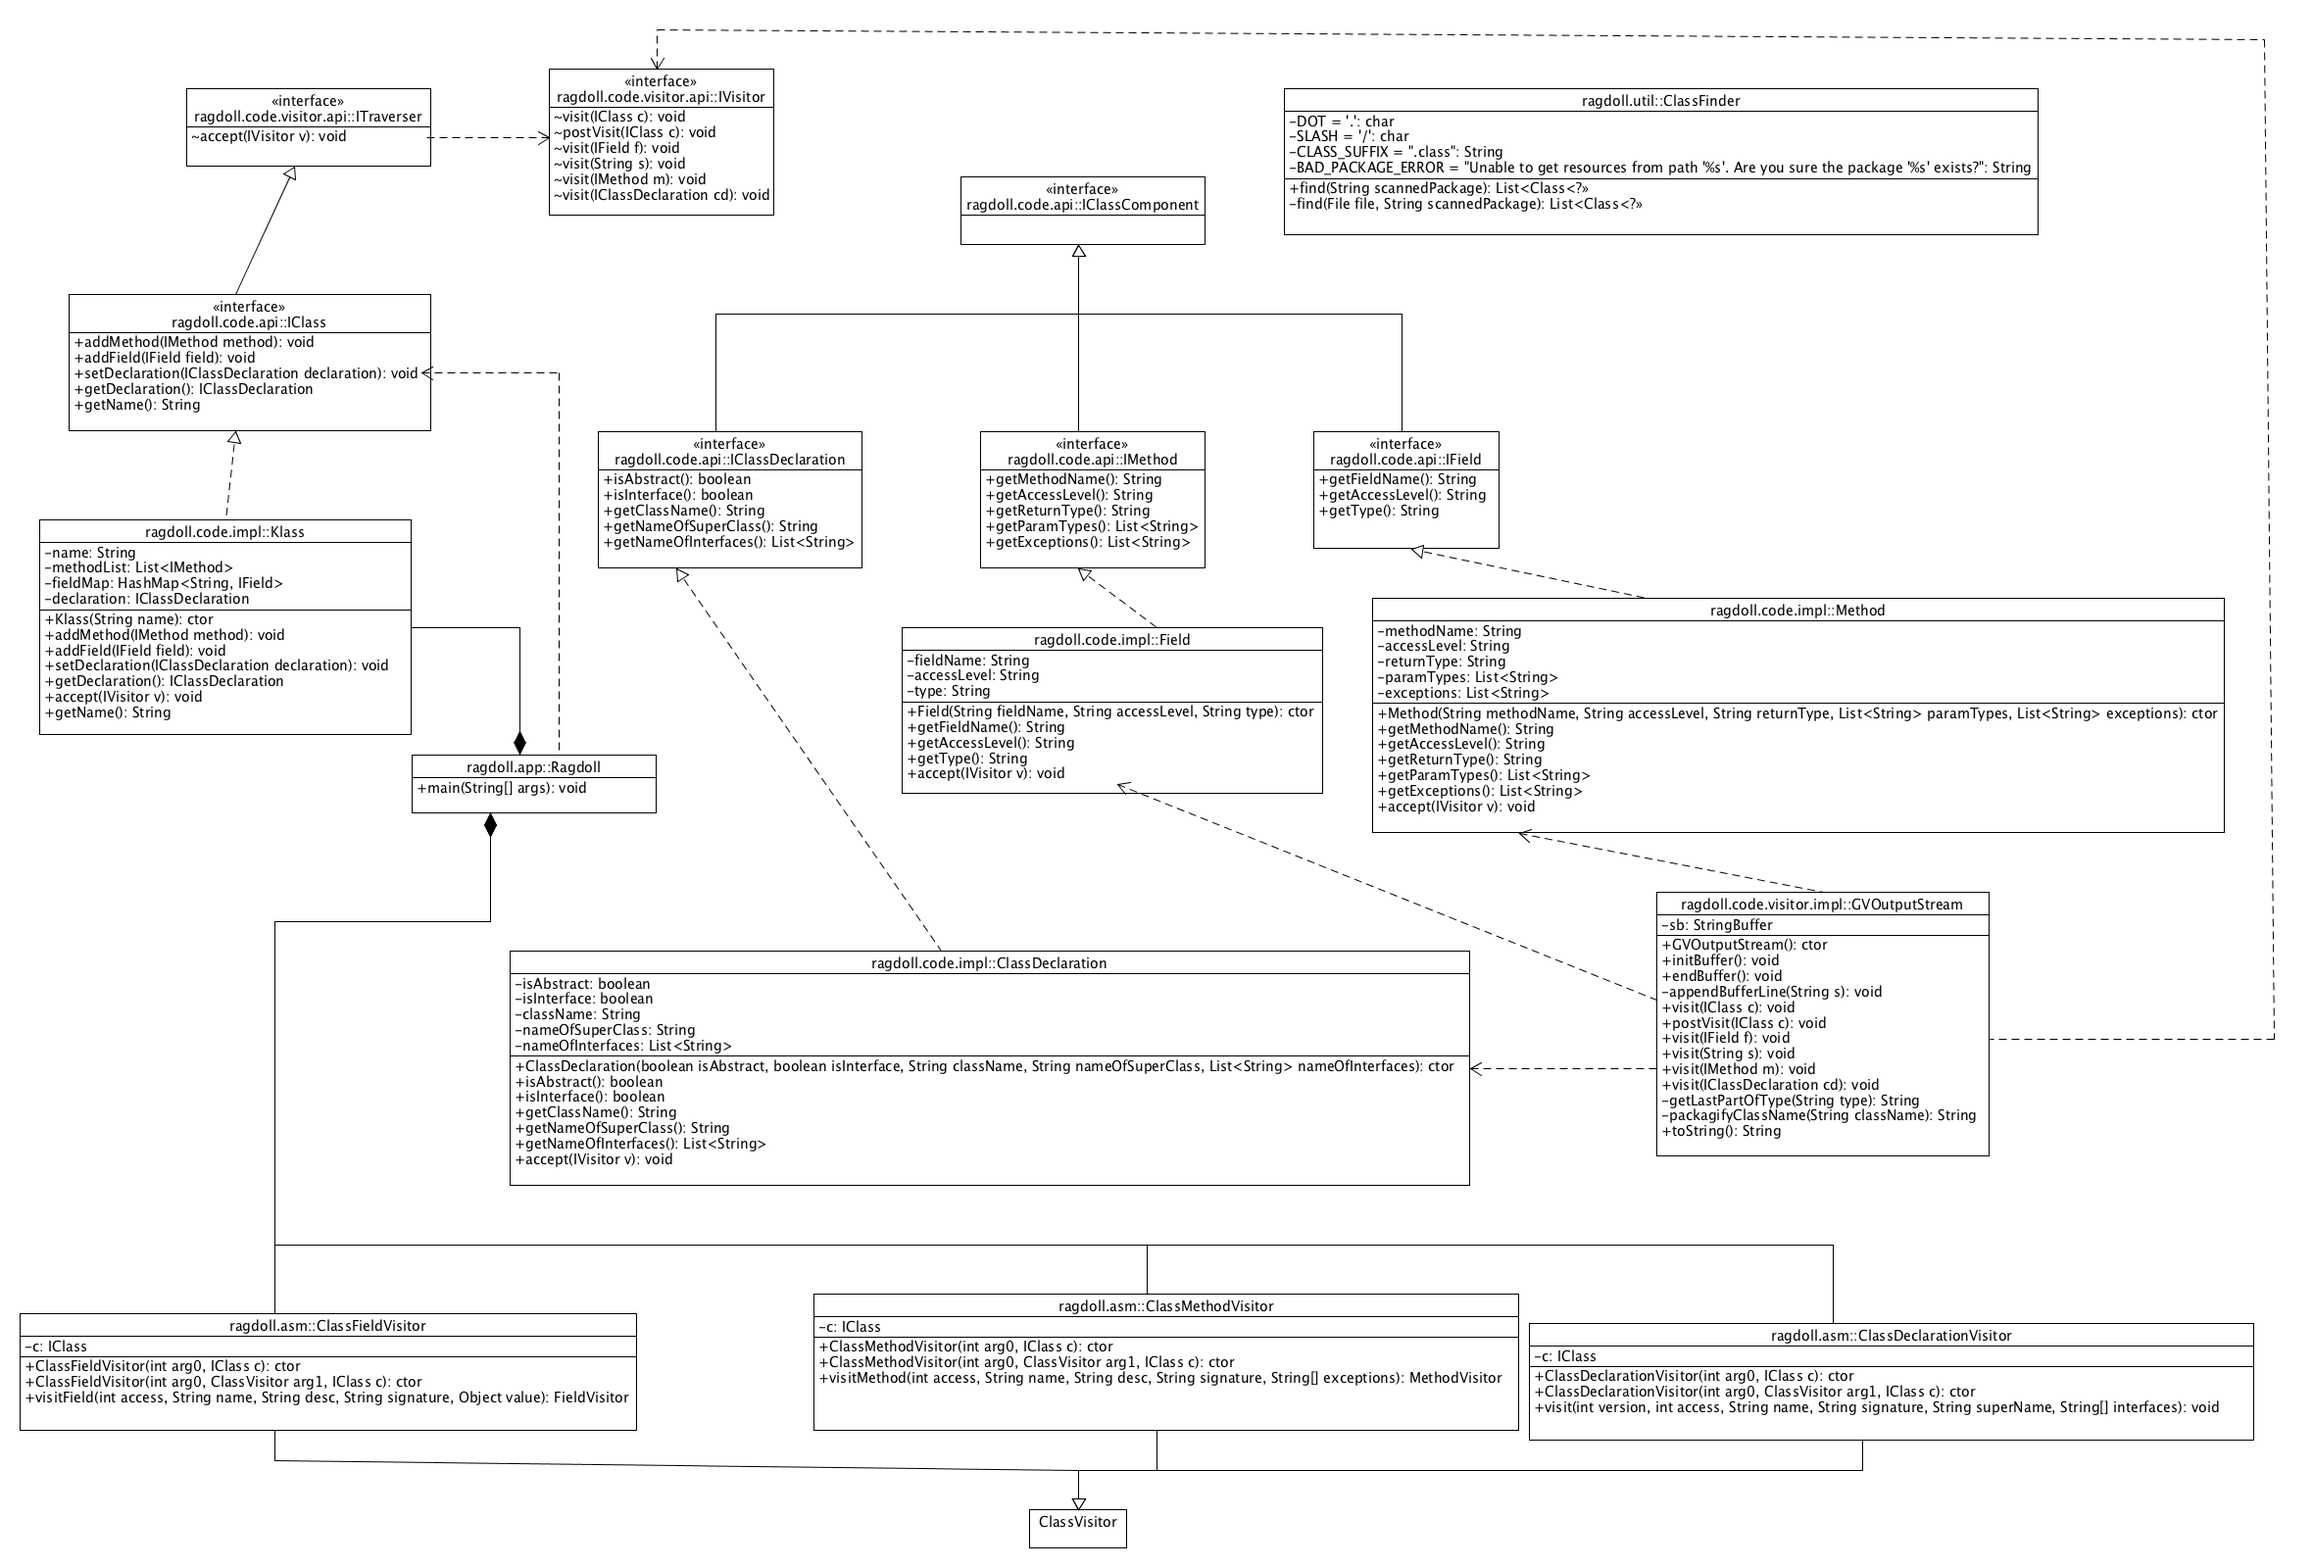
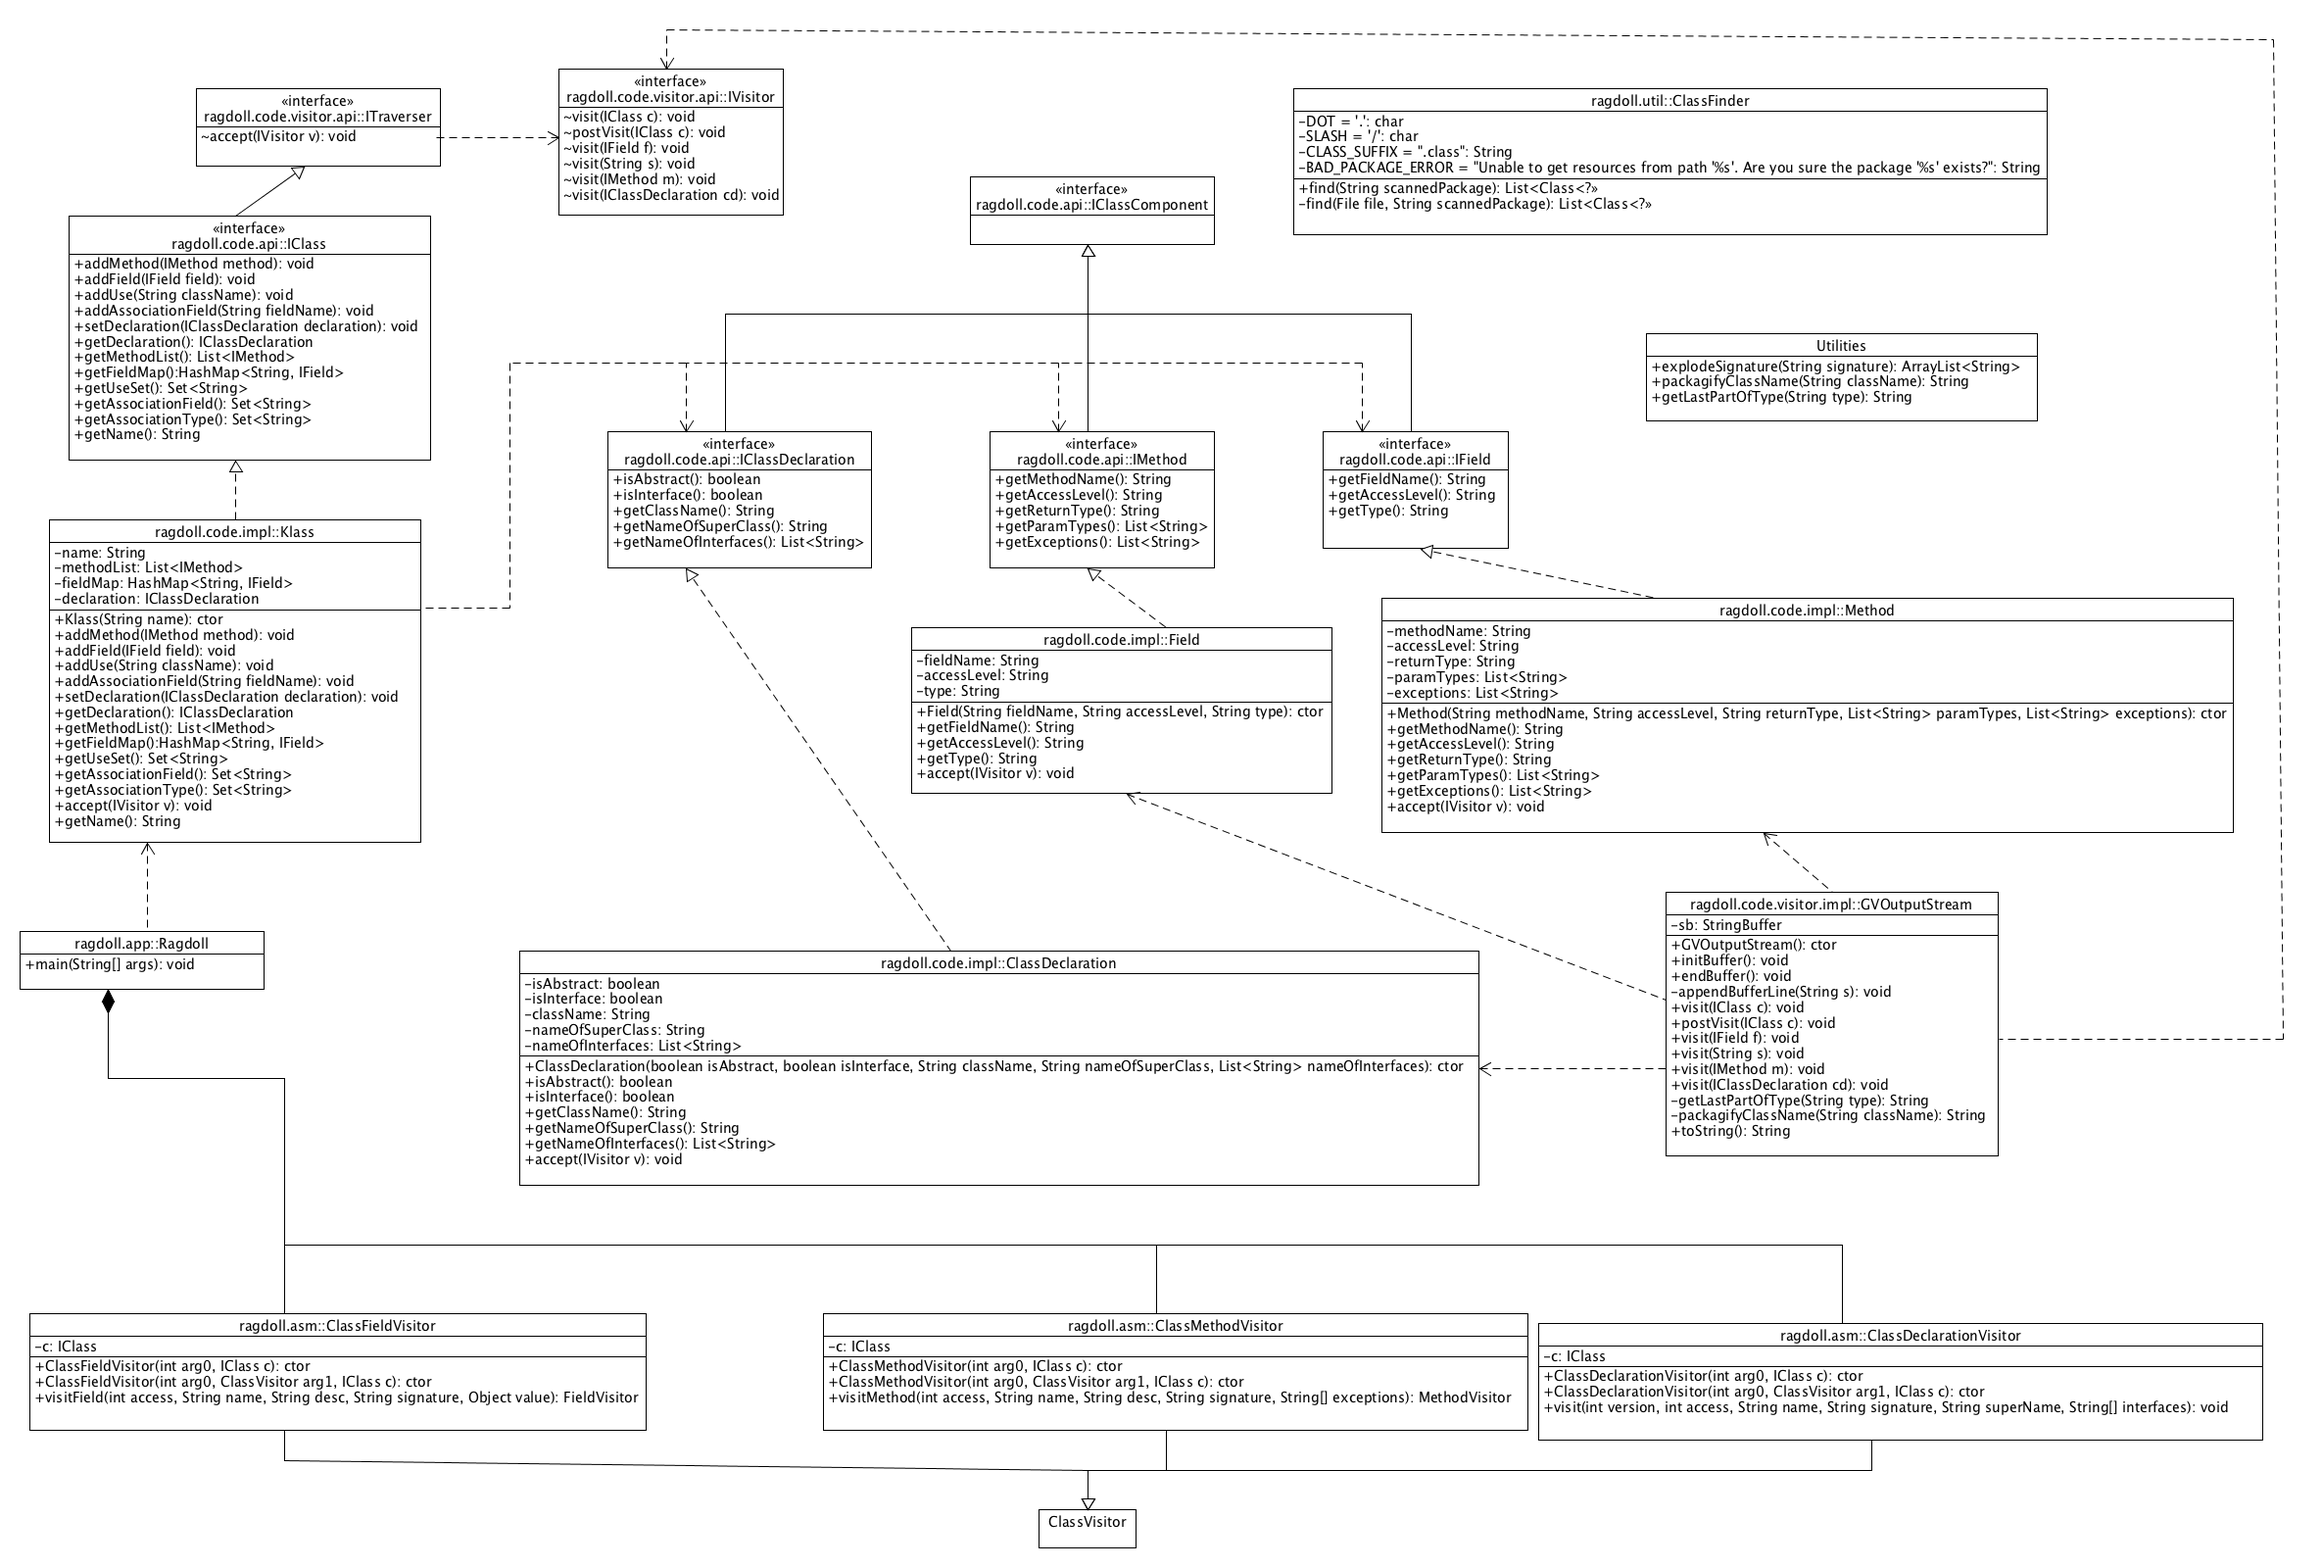
[zxqdx] Updated tests & Added tests for tricky abstract factory pattern packages.

diff --git a/test/ragdoll/code/visitor/impl/test/GVOutputStreamTest.java b/test/ragdoll/code/visitor/impl/test/GVOutputStreamTest.java
@@ -3,9 +3,12 @@ package ragdoll.code.visitor.impl.test;
 import static org.junit.Assert.*;
 
 import java.io.IOException;
+import java.util.ArrayList;
 import java.util.HashMap;
+import java.util.HashSet;
 import java.util.List;
 import java.util.Map;
+import java.util.Set;
 
 import org.junit.Before;
 import org.junit.Test;
@@ -22,26 +25,42 @@ import ragdoll.code.api.IField;
 import ragdoll.code.api.IMethod;
 import ragdoll.code.impl.Klass;
 import ragdoll.code.visitor.impl.GVOutputStream;
+import ragdoll.util.ClassFinder;
+import ragdoll.util.Utilities;
 
 public class GVOutputStreamTest {
 
 	private GVOutputStream gvOS;
-	private final IClass newClass;
+	private final Map<String, IClass> iClasses;
 	private StringBuffer sb;
 
 	public GVOutputStreamTest() throws IOException {
+		// Tests a tricky abstract factory pattern package.
 		gvOS = null;
-		String className = "ragdoll.asm.test.sample.SampleClass";
-		Map<String, IClass> iClasses = new HashMap<>();
-		newClass = new Klass(className, iClasses);
-		iClasses.put(className, newClass);
-		ClassReader reader = new ClassReader(className);
+		String packageName = "headfirst";
+		List<Class<?>> classes = ClassFinder.find(packageName);
+		List<String> classNames = new ArrayList<>();
+		for (Class<?> c : classes) {
+			classNames.add(c.getName());
+		}
+		iClasses = new HashMap<>();
+		
+		for (String className : classNames) {
+			if (className.contains(".test.") || className.endsWith("Test")
+				|| className.endsWith("Tests") || className.contains("$")) {
+				continue;
+			}
+			IClass newClass = new Klass(className, iClasses);
+			ClassReader reader = new ClassReader(className);
 
-		ClassVisitor declVisitor = new ClassDeclarationVisitor(Opcodes.ASM5, newClass);
-		ClassVisitor fieldVisitor = new ClassFieldVisitor(Opcodes.ASM5, declVisitor, newClass);
-		ClassVisitor methodVisitor = new ClassMethodVisitor(Opcodes.ASM5, fieldVisitor, newClass);
+			ClassVisitor declVisitor = new ClassDeclarationVisitor(Opcodes.ASM5, newClass);
+			ClassVisitor fieldVisitor = new ClassFieldVisitor(Opcodes.ASM5, declVisitor, newClass);
+			ClassVisitor methodVisitor = new ClassMethodVisitor(Opcodes.ASM5, fieldVisitor, newClass);
 
-		reader.accept(methodVisitor, ClassReader.EXPAND_FRAMES);
+			reader.accept(methodVisitor, ClassReader.EXPAND_FRAMES);
+			iClasses.put(className, newClass);
+		}
+
 	}
 
 	private final void appendBufferLine(String s) {
@@ -63,6 +82,7 @@ public class GVOutputStreamTest {
 		gvOS.initBuffer();
 
 		appendBufferLine("digraph G {");
+		appendBufferLine("rankdir=BT;");;
 		appendBufferLine("fontname = \"Times New Roman\"");
 		appendBufferLine("fontsize = 12");
 		appendBufferLine("node [");
@@ -83,61 +103,86 @@ public class GVOutputStreamTest {
 
 	@Test
 	public void testVisitIClass() {
-		gvOS.visit(newClass);
-		appendBufferLine("\"ragdoll.asm.test.sample.SampleClass\" [");
-		appendBuffer("label = <{");
+		// Tests headfirst.factory.pizzafm.Pizza
+		gvOS.visit(iClasses.get("headfirst.factory.pizzafm.Pizza"));
+		appendBufferLine("\"headfirst.factory.pizzafm.Pizza\" [");
+		appendBuffer("label = \"{");
 		assertEquals(sb.toString(), gvOS.toString());
 	}
 
 	@Test
 	public void testPostVisitIClass() {
-		gvOS.postVisit(newClass);
+		// Tests headfirst.factory.pizzafm.ChicagoStyleCheesePizza
+		gvOS.postVisit(iClasses.get("headfirst.factory.pizzafm.ChicagoStyleCheesePizza"));
 
-		appendBufferLine("}>");
+		appendBufferLine("}\"");
 		appendBufferLine("]");
 		appendBufferLine("edge [");
 		appendBufferLine("style = \"dashed\"");
 		appendBufferLine("arrowhead = \"empty\"");
 		appendBufferLine("]");
-		appendBufferLine("\"ragdoll.asm.test.sample.SampleClass\" -> \"ragdoll.asm.test.sample.SampleInterface\"");
 		appendBufferLine("edge [");
 		appendBufferLine("style = \"solid\"");
 		appendBufferLine("arrowhead = \"empty\"");
 		appendBufferLine("]");
-		appendBufferLine("\"ragdoll.asm.test.sample.SampleClass\" -> \"ragdoll.asm.test.sample.ParentClass\"");
+		appendBufferLine("\"headfirst.factory.pizzafm.ChicagoStyleCheesePizza\" -> \"headfirst.factory.pizzafm.Pizza\"");
+		appendBufferLine("edge [");
+		appendBufferLine("style = \"dashed\"");
+		appendBufferLine("arrowhead = \"vee\"");
+		appendBufferLine("]");
+		appendBufferLine("\"headfirst.factory.pizzafm.ChicagoStyleCheesePizza\" -> \"headfirst.factory.pizzafm.Pizza\"");
+		appendBufferLine("edge [");
+		appendBufferLine("style = \"solid\"");
+		appendBufferLine("arrowhead = \"vee\"");
+		appendBufferLine("]");
 		
 		assertEquals(sb.toString(), gvOS.toString());
 	}
 
 	@Test
 	public void testVisitIClassDeclaration() {
-		IClassDeclaration classDeclaration = newClass.getDeclaration();
+		// Tests headfirst.factory.pizzafm.Pizza
+		IClassDeclaration classDeclaration = iClasses.get("headfirst.factory.pizzafm.Pizza").getDeclaration();
 		classDeclaration.accept(gvOS);
-		appendBuffer("«abstract»<br/>ragdoll.asm.test.sample.SampleClass|");
+		appendBuffer("«abstract»\\n");
+		appendBuffer("headfirst.factory.pizzafm.Pizza|");
 		assertEquals(sb.toString(), gvOS.toString());
 	}
 
 	@Test
 	public void testVisitIField() {
-		HashMap<String, IField> fieldMap = newClass.getFieldMap();
+		// Tests headfirst.factory.pizzaaf.Pizza
+		HashMap<String, IField> fieldMap = iClasses.get("headfirst.factory.pizzaaf.Pizza").getFieldMap();
 		for (String fieldName : fieldMap.keySet()) {
 			IField f = fieldMap.get(fieldName);
 			f.accept(gvOS);
 		}
 		
-		appendBuffer("+ o2 : java.lang.Object<br/>- i1 : int<br/>");
+		appendBuffer("~ name : java.lang.String\\l");
+		appendBuffer("~ sauce : headfirst.factory.pizzaaf.Sauce\\l");
+		appendBuffer("~ clam : headfirst.factory.pizzaaf.Clams\\l");
+		appendBuffer("~ veggies : headfirst.factory.pizzaaf.Veggies[]\\l");
+		appendBuffer("~ pepperoni : headfirst.factory.pizzaaf.Pepperoni\\l");
+		appendBuffer("~ dough : headfirst.factory.pizzaaf.Dough\\l");
+		appendBuffer("~ cheese : headfirst.factory.pizzaaf.Cheese\\l");
 		
 		assertEquals(sb.toString(), gvOS.toString());
 	}
 
 	@Test
 	public void testVisitIMethod() {
-		List<IMethod> methodList = newClass.getMethodList();
+		// Tests headfirst.factory.pizzaaf.ChicagoPizzaIngredientFactory
+		List<IMethod> methodList = iClasses.get("headfirst.factory.pizzaaf.ChicagoPizzaIngredientFactory").getMethodList();
 		for (IMethod m : methodList){
 			m.accept(gvOS);
 		}
 		
-		appendBuffer("+ sampleMethod(i0: into1: Object): void<br/>");
+		appendBuffer("+ createDough(): Dough\\l");
+		appendBuffer("+ createSauce(): Sauce\\l");
+		appendBuffer("+ createCheese(): Cheese\\l");
+		appendBuffer("+ createVeggies(): Veggies[]\\l");
+		appendBuffer("+ createPepperoni(): Pepperoni\\l");
+		appendBuffer("+ createClam(): Clams\\l");
 		
 		assertEquals(sb.toString(), gvOS.toString());
 	}

diff --git a/src/ragdoll/app/Ragdoll.java b/src/ragdoll/app/Ragdoll.java
@@ -24,7 +24,7 @@ public class Ragdoll {
 		}
 
 		// Traverse classes
-		List<Class<?>> classes = ClassFinder.find(args[0]);		
+		List<Class<?>> classes = ClassFinder.find(args[0]);
 		List<String> classNames = new ArrayList<>();
 		for (Class<?> c : classes) {
 			classNames.add(c.getName());

diff --git a/README.md b/README.md
@@ -82,6 +82,9 @@ The project follows the following design principles:
 | zxqdx          | Added output for association arrows.                                                        | 15m    |
 | Sasha & yangh1 | Added support for nested types in association.                                              | 20m    |
 | zxqdx          | Fixed an issue where it displays association arrow and use arrow at the same time.          | 5m     |
+| Sasha          | Minor bug fix; Create UML for PizzaFactory                                                  | 10m    |
+| yangh1         | Updated manually created UML diagram for project.                                           | 15m    |
+| zxqdx          | Updated tests & Added tests for tricky abstract factory pattern packages.                   | 15m    |
 
 ## Usage / Instructions
 ### Before we start
@@ -146,3 +149,7 @@ This will generate a png image file (the UML diagram) in your current directory.
 
 #### Generated UML diagram
 ![UML Diagram](/img/ProjectUMLGenerated.png "")
+
+### Textbook Pizza Factory
+#### Generated UML diagram
+![UML Diagram](/img/PizzaFactoryUMLGenerated.png "")
